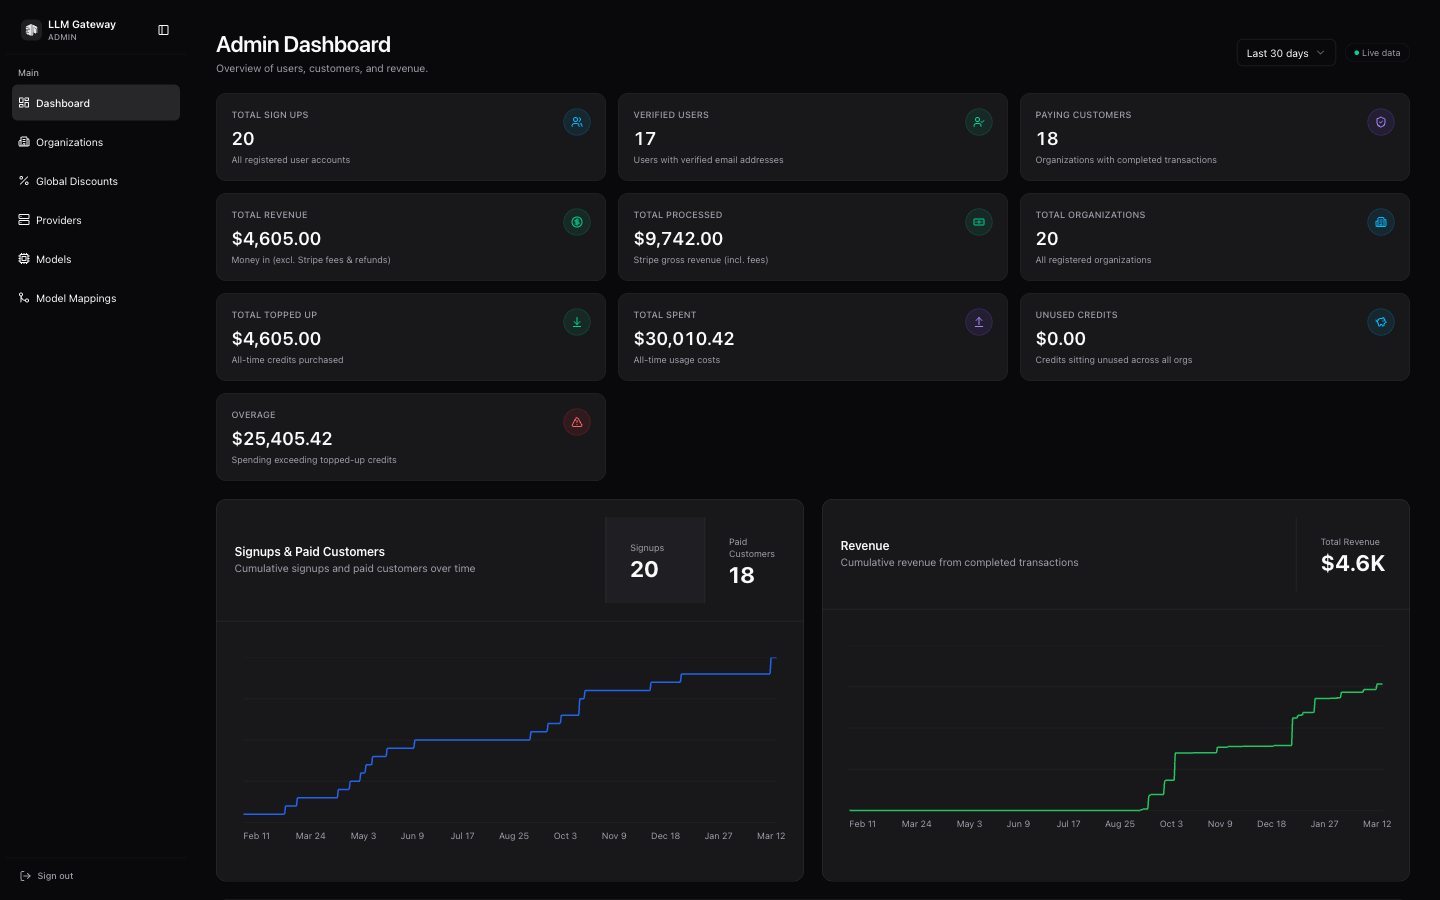
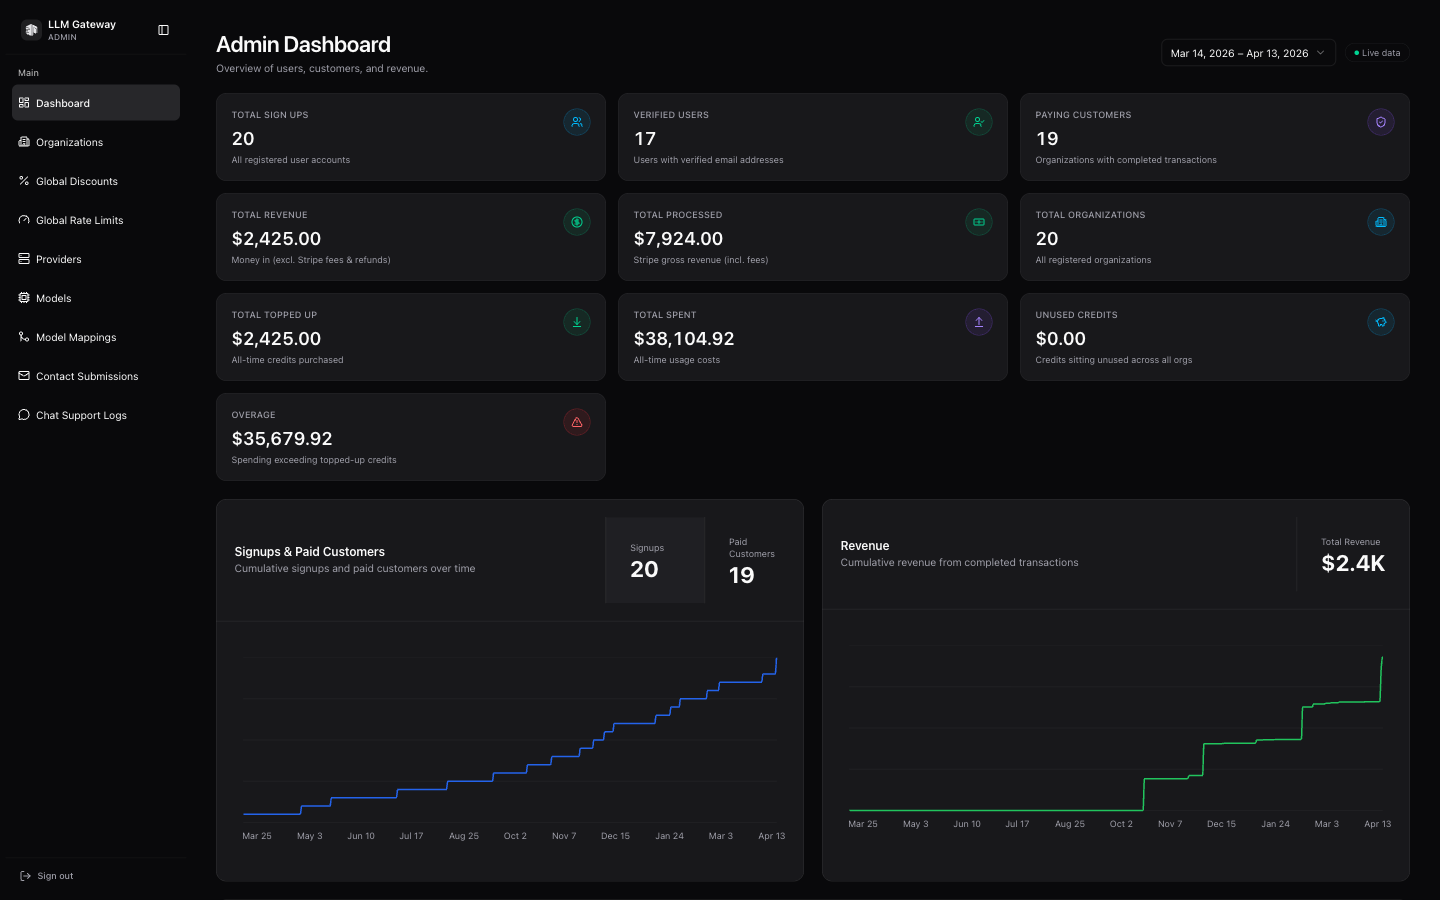
feat(enterprise): retake screenshots, add video studio
- Retake all screenshots at 1440x900 (light + dark)
- Add Video Studio to product showcase section
- Hide TanStack devtools and Next.js dev tools
- Screenshots: dashboard, playground, image studio,
  video studio, admin, docs

diff --git a/apps/ui/src/components/enterprise/product-showcase.tsx b/apps/ui/src/components/enterprise/product-showcase.tsx
@@ -24,6 +24,13 @@ const screenshots = [
 			"Generate images with multiple providers and models. Compare outputs side-by-side with adjustable settings.",
 	},
 	{
+		slug: "video-studio",
+		alt: "LLM Gateway Video Studio",
+		title: "Video Studio",
+		description:
+			"Create AI-generated videos with Sora, Kling, and more. Set resolution, duration, and audio options from one interface.",
+	},
+	{
 		slug: "admin",
 		alt: "LLM Gateway Admin Dashboard",
 		title: "Admin Dashboard",
